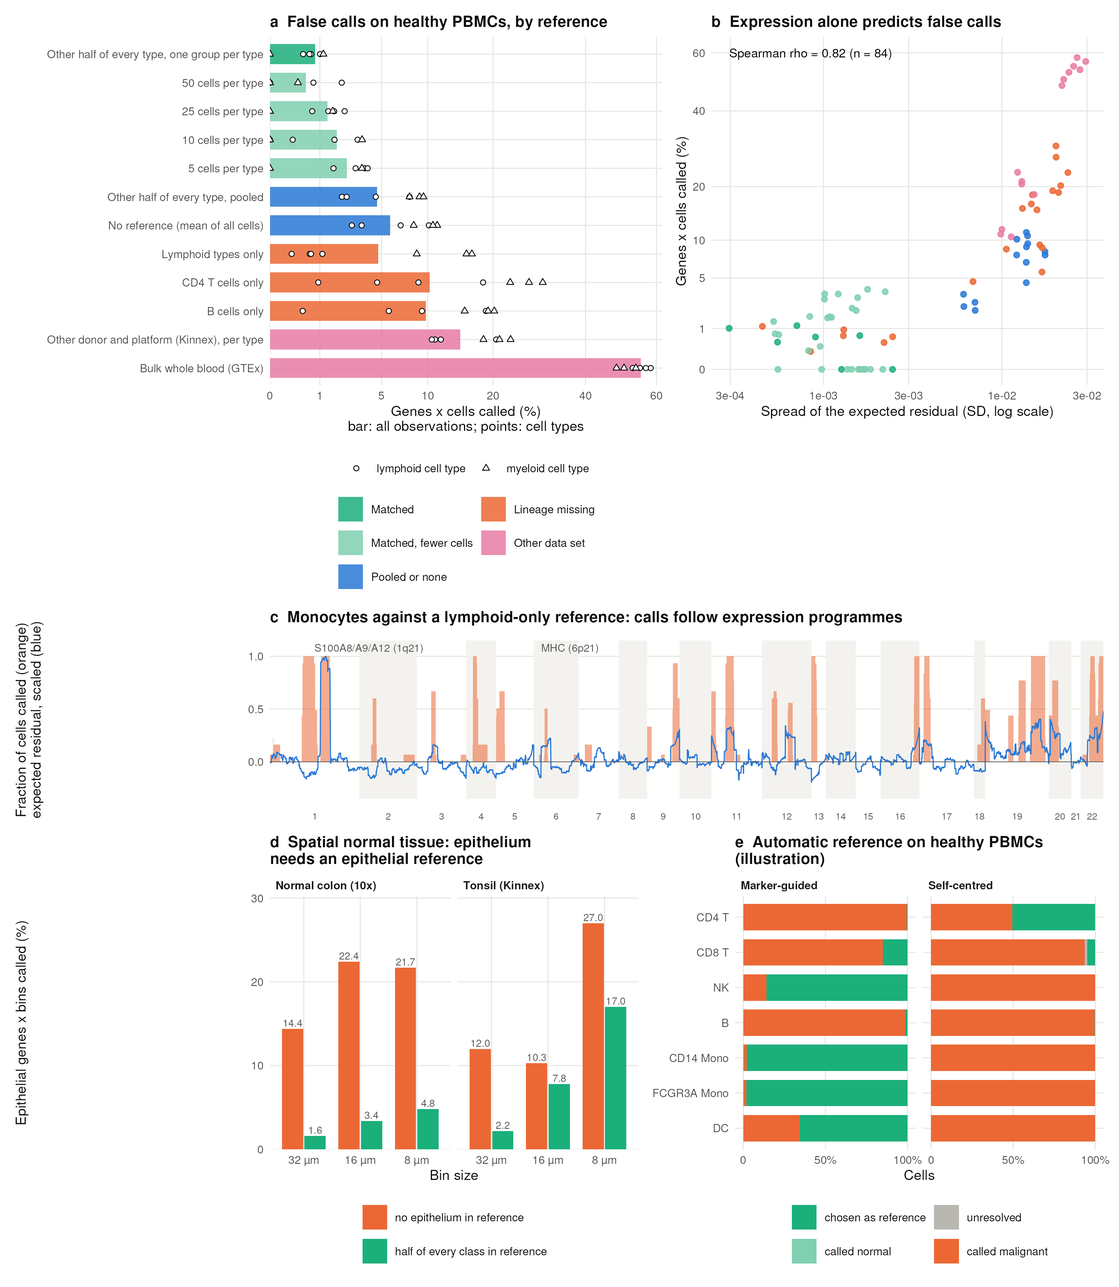
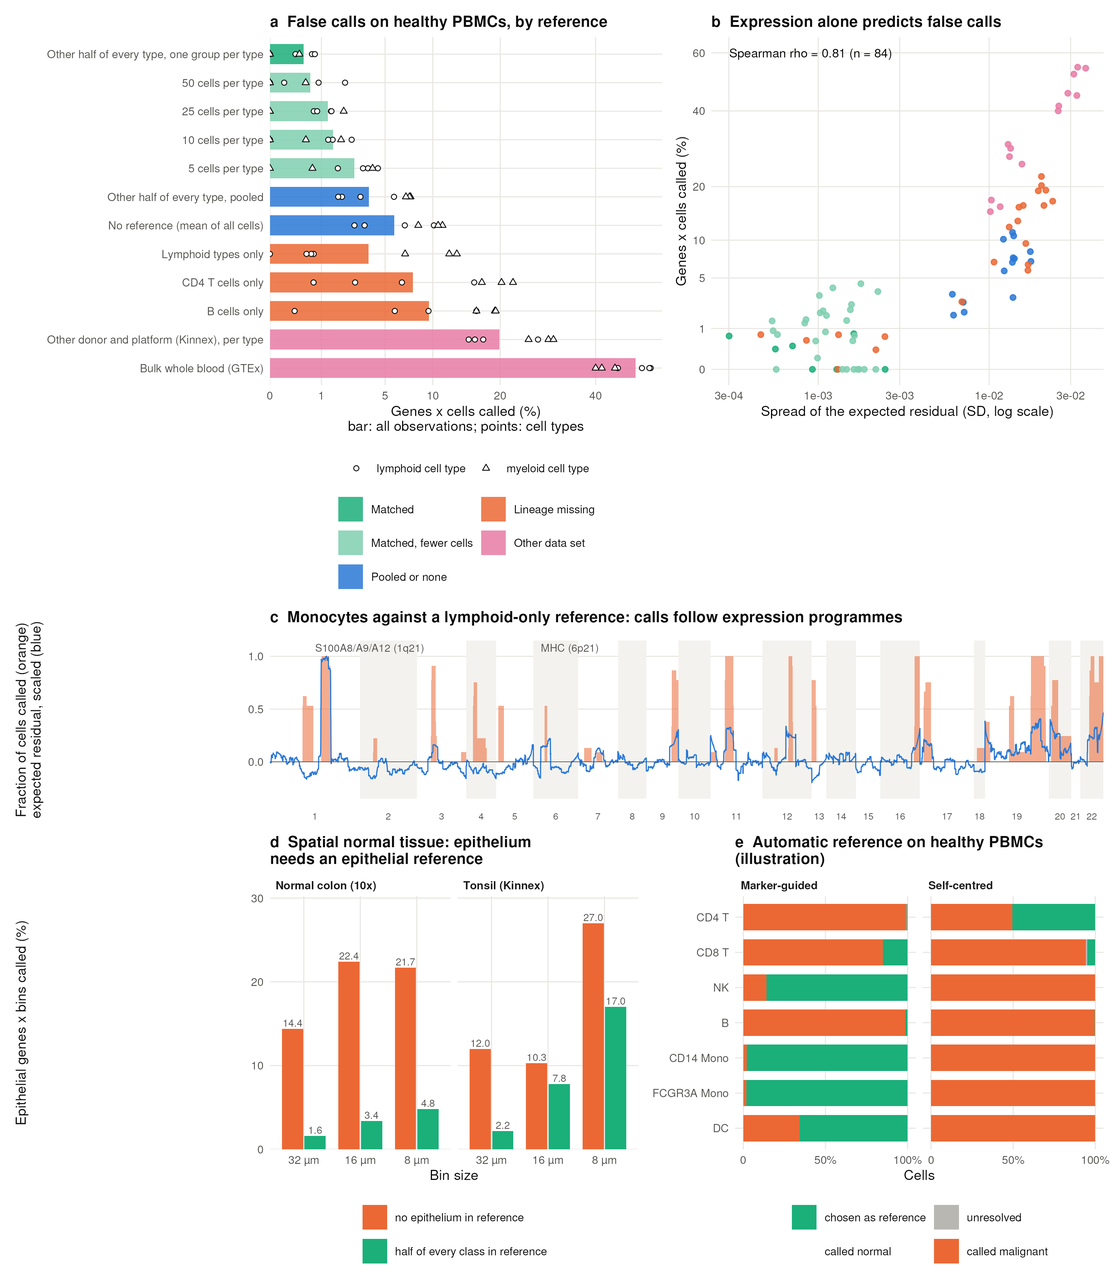
Choice of reference and bin-size figures and text on the release branch: PBMC rerun, P5 16 and 8 um rerun, fixed clones, seed agreement

diff --git a/sections/results.tex b/sections/results.tex
@@ -86,11 +86,11 @@ Simulated data are easier than real data. The simulator draws counts from the sa
 
 \subsection{Choice of reference (Fig.~\ref{fig:6})}
 
-inferCNV measures expression relative to the reference cells, so any expression programme that differs between the observations and the reference, and whose genes lie close together on a chromosome, can appear as a CNA. To measure this, we ran inferCNV on peripheral blood mononuclear cells from a healthy donor, which carry no CNAs \citep{tenx2016pbmc3k, xclonedata} (10x, 2,625 cells in seven cell types). The observations were the same 1,314 cells in every design, a random half of every cell type, and only the reference changed (Fig.~\ref{fig:6}a; Methods). With the other half of every cell type as the reference, one group per type, 0.8\% of genes $\times$ cells were in a non-neutral state after the Bayesian filter (1.3\% before it; 0--1.1\% by cell type). Pooling the same reference cells into one group raised this to 4.6\%, and running without a reference, which uses the mean of all cells as the baseline, to 5.8\%, with the highest rates in monocytes and dendritic cells (8--11\%). The largest effect came from leaving a lineage out of the reference. With the lymphoid cell types alone as the reference, the lymphoid observations stayed at 0.2--1.1\%, but monocytes reached 16\% and dendritic cells 9\%. A single cell type as the reference gave 10\% overall and 15--30\% in the myeloid and NK cells. A reference from another donor sequenced on another platform (Kinnex PBMCs; Fig.~\ref{fig:7}) gave 14.5\% even though every cell type was matched, and 200 bulk whole-blood profiles from GTEx \citep{gtex2020} gave 55\%. The depth of the bulk samples also set the automatic expression cutoff in that run, but the platform difference dominated: with the cutoff taken from the observations alone, as in the new release, the bulk reference still gave 50\%. Reducing the per-type reference to 5--50 cells gave 0.5--2.4\% after filtering.
+inferCNV measures expression relative to the reference cells, so any expression programme that differs between the observations and the reference, and whose genes lie close together on a chromosome, can appear as a CNA. To measure this, we ran inferCNV on peripheral blood mononuclear cells from a healthy donor, which carry no CNAs \citep{tenx2016pbmc3k, xclonedata} (10x, 2,625 cells in seven cell types). The observations were the same 1,314 cells in every design, a random half of every cell type, and only the reference changed (Fig.~\ref{fig:6}a; Methods). With the other half of every cell type as the reference, one group per type, 0.4\% of genes $\times$ cells were in a non-neutral state after the Bayesian filter (1.4\% before it; 0--0.8\% by cell type). Pooling the same reference cells into one group raised this to 3.7\%, and running without a reference, which uses the mean of all cells as the baseline, to 5.8\%, with the highest rates in monocytes and dendritic cells (8--11\%). The largest effect came from leaving a lineage out of the reference. With the lymphoid cell types alone as the reference, the lymphoid observations stayed at 0--0.7\%, but monocytes reached 13\% and dendritic cells 7\%. A single cell type as the reference gave 8--10\% overall and 16--22\% in the myeloid and NK cells. A reference from another donor sequenced on another platform (Kinnex PBMCs; Fig.~\ref{fig:7}) gave 20\% even though every cell type was matched, and 200 bulk whole-blood profiles from GTEx \citep{gtex2020} gave 50\%. Reducing the per-type reference to 5--50 cells gave 0.6--2.7\% after filtering.
 
 A design without CNAs measures only false calls, so we tested reference size on tumours with known events as well (Supplementary Fig.~\ref{fig:Srefsize}; Methods). In three data sets, we planted gains and losses of 2--40~Mb in half of the normal cells of a sample and used the other half as the reference. Calls away from the planted events changed little down to 25--50 reference cells per group (0.6--3.4\% at 50 cells and 1.2--4.2\% at 25, against 0.7--2.4\% with all cells). Below that they rose quickly, to 2.9--8.2\% at 10 cells and 4.5--20\% at 5, and they varied between random draws of the same size (15--26\% at 5 T cells). These extra calls brought no real gain in detection: event sensitivity net of the calls made elsewhere was no higher with small references (Supplementary Fig.~\ref{fig:Srefsize}b). The small reference itself was the cause, not the lower automatic minimum subcluster size that comes with it, because fixing that minimum at 10 cells left the false calls almost unchanged. On BCH869, where WGS gives the truth, the maximal F1 for clones 1--3 was 0.90 with the full reference (18 oligodendrocytes and 39 immune cells) and 0.90--0.92 with 10 cells per type, but 0.80--0.84 with 3 or 5 cells per type. Lineage mattered more than number here: the 18 oligodendrocytes alone gave 0.85 and the 39 immune cells alone 0.68.
 
-The false calls could be predicted from expression alone, before running inferCNV. For each cell type and design we computed the expected residual: the difference between the cell type's mean expression and the reference, set to zero within the range of the reference groups, as in the reference subtraction, and smoothed along each chromosome (Methods). Where the reference lacked the cell type's lineage, the calls followed this profile (Fig.~\ref{fig:6}c). In monocytes against the lymphoid reference, for example, the S100A8/A9/A12 cluster on 1q21, a myeloid programme, was called in 97\% of cells. Across the 84 combinations of design and cell type, the spread of the expected residual ranked the false-call rate with a Spearman correlation of 0.82 (Fig.~\ref{fig:6}b), and in the pooled and reference-free designs the 10\% of genes with the largest expected residual carried 51--84\% of the calls.
+The false calls could be predicted from expression alone, before running inferCNV. For each cell type and design we computed the expected residual: the difference between the cell type's mean expression and the reference, set to zero within the range of the reference groups, as in the reference subtraction, and smoothed along each chromosome (Methods). Where the reference lacked the cell type's lineage, the calls followed this profile (Fig.~\ref{fig:6}c). In monocytes against the lymphoid reference, for example, the S100A8/A9/A12 cluster on 1q21, a myeloid programme, was called in all cells. Across the 84 combinations of design and cell type, the spread of the expected residual ranked the false-call rate with a Spearman correlation of 0.81 (Fig.~\ref{fig:6}b), and in the pooled and reference-free designs the 10\% of genes with the largest expected residual carried 51--99\% of the calls.
 
 Methods that find the reference cells themselves face the same problem. For illustration, we ran two automatic strategies on all 2,625 healthy cells with no labels: a provisional reference chosen by markers of non-malignant lineages, as in SCEVAN \citep{defalco2023}, or by the flattest self-centred expression profiles, the principle of CopyKAT \citep{gao2021copykat}, followed by a second inferCNV run in which subclusters were classified by CNA score and correlation \citep{tirosh2016oligo, puram2017} (Methods). Both called most of the healthy cells malignant (68\% and 77\%; Fig.~\ref{fig:6}e). Each chose mainly one lineage as the reference (monocytes and NK cells, or CD4 T cells) and then classified the other lineages as malignant.
 
@@ -129,9 +129,9 @@ These runs used the default expression cutoff (\texttt{"auto"}; see below), whic
 
 Visium HD data can be analysed at several bin sizes: smaller bins follow tissue structure more closely but hold fewer counts. To test how far inferCNV can follow, we ran it at 32, 16 and 8~\textmu m on the same sections. These were three colorectal tumours (P1, P2 and P5) and normal colon (P3) profiled with the 10x probe-based assay \citep{oliveira2025visiumhd}, the segmented cells of P2, and the three Kinnex sections of Fig.~\ref{fig:8} (Methods). Tumour bins were the observations and bins of the other cell types the reference, one group per type. The normal colon and the tonsil served as controls, with their epithelial bins analysed against the other cell types.
 
-The first limit is the expression filter. inferCNV removes genes whose mean count over all cells is below a fixed cutoff, conventionally 0.1 for 10x data, and this cutoff does not scale with depth. At 8~\textmu m, with a median of 460--1,217 counts per bin in the 10x tumours and about 200 in the Kinnex sections, a cutoff of 0.1 left 10--82 genes on the median chromosome, fewer than the 101 genes of the smoothing window. Each smoothed value then averages over most of a chromosome, and the HMM segments noise. The null check of the new release measures this directly: it runs the HMM on random groups of reference cells, in which every call is false (see \emph{Hidden Markov model and in-silico spike-in calibration} above). At a cutoff of 0.1, 17--79\% of genes $\times$ bins were called in these groups at 8~\textmu m and 20--36\% in the Kinnex 16-\textmu m bins, against 0.1--6.2\% in all other runs (Fig.~\ref{fig:9}c). No run fell between 6.2\% and 17\%; the check warns above 5\% and stops above 15\%. The new default, \texttt{cutoff\ =\ "auto"}, takes the largest of the cutoffs 1, 0.1, 0.03, 0.01, 0.003 and 0.001 that keeps at least three smoothing windows of genes on the median chromosome. It chose 1 for the Smart-seq2 data of Figs.~\ref{fig:1}--\ref{fig:3}, the value used there, and 0.1 for the 10x 32-\textmu m bins. For smaller bins it chose 0.03 (10x, 16~\textmu m) and 0.01 (8~\textmu m), and 0.003--0.03 for the shallower Kinnex bins. These cutoffs kept 307--440 genes per chromosome, and the null false-call rate fell to at most 3.0\% in all 22 runs.
+The first limit is the expression filter. inferCNV removes genes whose mean count over all cells is below a fixed cutoff, conventionally 0.1 for 10x data, and this cutoff does not scale with depth. At 8~\textmu m, with a median of 460--1,217 counts per bin in the 10x tumours and about 200 in the Kinnex sections, a cutoff of 0.1 left 10--82 genes on the median chromosome, fewer than the 101 genes of the smoothing window. Each smoothed value then averages over most of a chromosome, and the HMM segments noise. The null check of the new release measures this directly: it runs the HMM on random groups of reference cells, in which every call is false (see \emph{Hidden Markov model and in-silico spike-in calibration} above). At a cutoff of 0.1, 17--79\% of genes $\times$ bins were called in these groups at 8~\textmu m and 20--36\% in the Kinnex 16-\textmu m bins, against 0.1--6.2\% in all other runs (Fig.~\ref{fig:9}c). No run fell between 6.2\% and 17\%; the check warns above 5\% and stops above 15\%. The new default, \texttt{cutoff\ =\ "auto"}, takes the largest of the cutoffs 1, 0.1, 0.03, 0.01, 0.003 and 0.001 that keeps at least three smoothing windows of genes on the median chromosome. It chose 1 for the Smart-seq2 data of Figs.~\ref{fig:1}--\ref{fig:3}, the value used there, and 0.1 for the 10x 32-\textmu m bins. For smaller bins it chose 0.03 (10x, 16~\textmu m) and 0.01 (8~\textmu m), one step higher in P5, the deepest tumour (0.1 and 0.03), and 0.003--0.03 for the shallower Kinnex bins. These cutoffs kept 307--440 genes per chromosome, and the null false-call rate fell to at most 3.0\% in all 22 runs.
 
-With these cutoffs, the tumour profiles at 16 and 8~\textmu m matched those at 32~\textmu m (Fig.~\ref{fig:9}a, d; Supplementary Fig.~\ref{fig:Sres}). In the 10x tumours, the mean residual profile correlated with the 32-\textmu m profile with $r = 0.98$--0.99 at 16~\textmu m, 0.96--0.97 at 8~\textmu m and 0.96 for segmented cells, against 0.94--0.96, 0.78--0.92 and 0.89 at a cutoff of 0.1. Agreement followed depth per bin rather than technology. Kinnex bins of 16 and 8~\textmu m, with 200--700 counts, reached $r = 0.73$--0.96 (0.02--0.59 at a cutoff of 0.1). Smaller bins nonetheless added some calls. At 8~\textmu m, P1 had losses on chromosomes 2--5 and 9 that were absent at 32~\textmu m. The fraction of bins called lost along the genome correlated with that at 32~\textmu m with $r = 0.41$ in P1, against 0.83--0.92 in P2 and P5. Calls that appear only in the smallest bins should therefore be checked against larger bins of the same section. In P5, a gain of chromosome 14 defined a subclone at every bin size (1,217 of 7,835 tumour bins at 32~\textmu m, 1,185 at 16~\textmu m and 515 at 8~\textmu m), always in the same region of the section (Fig.~\ref{fig:9}b). Clone assignments otherwise agreed poorly between bin sizes (adjusted Rand index 0.08--0.22 against 32~\textmu m). Three causes contributed, none of them a difference in the tumour. The finer runs analysed a sample of 10,000 tumour bins: with all 27,130 tumour bins at 16~\textmu m, P5 split into the same two clones as at 32~\textmu m, and agreement rose from 0.13 to 0.48. Subclusters of small bins did not follow the clones. And at 8~\textmu m, clone assignments changed with the random seed of the HMM calibration (P5: adjusted Rand index 0.19 between seeds, against 0.67 at 32~\textmu m; P2 0.95 at 32~\textmu m). We therefore used the bin sizes as successive steps rather than alternatives (find, confirm, map; Methods). Clone-defining events were found in every run, each was tested in the other runs of the same section against random genome windows of the same size, and the clones of the 32-\textmu m run were mapped onto finer bins through the confirmed events. In P5, the chromosome 14 gain was confirmed at every bin size (AUC 0.72--0.93), whereas the events found only at 8~\textmu m were not. In P2, the 1q loss and the gains of chromosome 16 and 17q were confirmed in all finer runs (AUC 0.69--0.88). In P1, no clone-defining event of the 32-\textmu m run was confirmed in smaller bins. Mapping recovered the 32-\textmu m clones only regionally: per-bin balanced accuracy was 0.64--0.65 in P5 and 0.57--0.61 in P2 (chance 0.50 and 0.33), with event scores pooled over 50--130~\textmu m. Smaller bins therefore located clones no more finely than 32-\textmu m bins did. In the two controls, 10--27\% of epithelial genes $\times$ bins were called at the three bin sizes (14\% and 12\% at 32~\textmu m). These calls reflect comparing epithelium with a reference made only of other lineages: with half of every class, epithelium included, as the reference, the rate fell to 1.6--4.8\% in the colon at all three bin sizes (Fig.~\ref{fig:6}d; see \emph{Choice of reference}).
+With these cutoffs, the tumour profiles at 16 and 8~\textmu m matched those at 32~\textmu m (Fig.~\ref{fig:9}a, d; Supplementary Fig.~\ref{fig:Sres}). In the 10x tumours, the mean residual profile correlated with the 32-\textmu m profile with $r = 0.97$--0.99 at 16~\textmu m, 0.95--0.96 at 8~\textmu m and 0.97 for segmented cells, against 0.94--0.96, 0.78--0.92 and 0.89 at a cutoff of 0.1. Agreement followed depth per bin rather than technology. Kinnex bins of 16 and 8~\textmu m, with 200--700 counts, reached $r = 0.73$--0.96 (0.02--0.59 at a cutoff of 0.1). Smaller bins nonetheless added some calls. At 8~\textmu m, P1 had losses on chromosomes 2--5 and 9 that were absent at 32~\textmu m. The fraction of bins called lost along the genome correlated with that at 32~\textmu m with $r = 0.41$ in P1, against 0.70 in P5 and 0.92 in P2. Calls that appear only in the smallest bins should therefore be checked against larger bins of the same section. In P5, a gain of chromosome 14 defined a subclone at every bin size (1,217 of 7,835 tumour bins at 32~\textmu m, 2,170 of 9,982 at 16~\textmu m and 792 of 9,806 at 8~\textmu m), always in the same region of the section (Fig.~\ref{fig:9}b). Clone assignments otherwise agreed poorly between bin sizes (adjusted Rand index 0.06--0.32 against 32~\textmu m). Subclusters of small bins did not follow the clones, and at 8~\textmu m, clone assignments changed with the random seed of the HMM calibration (P5: adjusted Rand index 0.38 between seeds, against 0.63 at 32~\textmu m; P2 0.98 at 32~\textmu m). Sampling was not the cause: with all 27,130 tumour bins at 16~\textmu m instead of 10,000, agreement with 32~\textmu m in P5 rose only from 0.32 to 0.35. We therefore used the bin sizes as successive steps rather than alternatives (find, confirm, map; Methods). Clone-defining events were found in every run, each was tested in the other runs of the same section against random genome windows of the same size, and the clones of the 32-\textmu m run were mapped onto finer bins through the confirmed events. In P5, the chromosome 14 gain was confirmed at every bin size (AUC 0.70--0.93), whereas of the other events found at 8~\textmu m, only one was confirmed, in one other run. In P2, the 1q loss and the gains of chromosome 16 and 17q were confirmed in all finer runs (AUC 0.69--0.88). In P1, no clone-defining event of the 32-\textmu m run was confirmed in smaller bins. Mapping recovered the 32-\textmu m clones only regionally: per-bin balanced accuracy was 0.62--0.66 in P5 and 0.57--0.61 in P2 (chance 0.50 and 0.33), with event scores pooled over 30--130~\textmu m. Smaller bins therefore located clones no more finely than 32-\textmu m bins did. In the two controls, 10--27\% of epithelial genes $\times$ bins were called at the three bin sizes (14\% and 12\% at 32~\textmu m). These calls reflect comparing epithelium with a reference made only of other lineages: with half of every class, epithelium included, as the reference, the rate fell to 1.6--4.8\% in the colon at all three bin sizes (Fig.~\ref{fig:6}d; see \emph{Choice of reference}).
 
 A further check concerns subcluster size. Leiden subclustering places no lower limit on size, and subclusters of one or two cells are common. In random groups of reference cells, a single cell had 14--17\% of genes called in the Smart-seq2 data, and 36--54\% for Visium HD bins and segmented cells. The rate fell below 2\% at 5 cells in Smart-seq2 data, at 10--20 bins at 32 and 16~\textmu m, and at 50 segmented cells. With the default \texttt{HMM\_min\_subcluster\_size\ =\ "auto"}, subclusters below the size at which this rate reaches 2\% are merged into their most similar subcluster before the HMM. The minimum was 5 cells for melanoma and oligodendroglioma, 15 bins for P1 at 32~\textmu m, 30 for P2 at 16~\textmu m and 100 segmented cells. In the Smart-seq2 tumours of Supplementary Fig.~\ref{fig:S6}, merging removed all the 0-copy calls of one- and two-cell subclusters. For 14 of 16 well-supported 1- to $\geq$5-copy events, the fraction of the event called in its state changed by less than 0.5 percentage points; the largest change was in the $\geq$5-copy gain of BCH869 1q, from 97\% to 91\%. With the bulk GTEx reference, in which each reference ``cell'' is a tissue sample, a single sample already had no calls, so the reference cannot calibrate the size; the new release then warns and uses 5 cells, the smallest minimum found in single-cell data. The minimum also sets the smallest subclone that can be called. In BCH869, random groups of 5 reference cells still had 5.0\% of genes called and groups of 10 had 1.2\%, so the minimum was 10 cells, and the 7-cell clone 4 (Fig.~\ref{fig:4}b) was merged into a subcluster of 67 cells, mostly of clone 2, and most of its events were no longer called. Because the minimum is calibrated on the noise of the reference cells, it falls as the depth per cell rises: a subclone of this size would need deeper data to be resolved, or a smaller minimum set by hand with a higher false-call rate accepted.
 

diff --git a/sections/discussion.tex b/sections/discussion.tex
@@ -13,7 +13,7 @@ Compared with other methods, inferCNV's main contributions are the following.
 \end{itemize}
 Because inferCNV uses expression alone and needs only a count matrix and a gene order file, it applies to any organism and platform. This includes inbred mouse models, data available only as count matrices, and plate-based or single-nucleus protocols with uneven coverage of variant sites. It also includes long-read single-cell data, on which inferCNV was as accurate as on short reads of the same cells (Fig.~\ref{fig:7}), and spatial data summed from Visium HD bins (Fig.~\ref{fig:8}). With spatial data, binning must give spots deep enough for arm-level signals: in our analysis, spots with fewer than about 1,000 counts produced calls that followed depth.
 
-The method also has limitations. The most important is its dependence on the reference. inferCNV measures copy number relative to the reference cells chosen by the user. A reference that differs in lineage from the observations, or that carries CNAs itself, distorts the signal. On a euploid data set, inferCNV called extensive aneuploidy when the reference was a different cell type or an external data set \citep{schmid2025}. In our analyses of healthy blood cells, false calls rose from 0.8\% with a per-cell-type reference of the same cells to 16\% in monocytes when the reference lacked the myeloid lineage, 14.5\% with a matched reference from another donor and platform, and 55\% with a bulk reference (Fig.~\ref{fig:6}a). The calls followed expression programmes of the observed cells that the reference did not cancel, such as the S100 gene cluster of monocytes, and their extent could be predicted from expression alone. In spatial data of normal tissue, epithelium compared with a reference of other lineages showed 10--27\% false calls, and adding epithelium to the reference reduced this four- to ninefold in the colon (Fig.~\ref{fig:6}d). The reference must therefore cover the lineage of the cells of interest; in carcinomas this means normal epithelium, which stroma and immune cells cannot replace. In glioblastoma, nine normal cells from the tumour itself gave a cleaner background than over a thousand bulk brain profiles (Fig.~\ref{fig:3}b). Without a reference, the baseline is the mean of all cells, as in the first pass of the original procedure \citep{puram2017}. When most cells are malignant, the shared tumour profile then becomes the baseline and the normal cells appear altered. Adding non-malignant cells, or a second run with the normal cells identified in a first run as the reference, avoids this inversion \citep{song2025}. Automatic choice of the reference does not remove the dependence: on healthy blood cells, two automatic strategies each chose mainly one lineage as the reference and classified most other cells as malignant (Fig.~\ref{fig:6}e).
+The method also has limitations. The most important is its dependence on the reference. inferCNV measures copy number relative to the reference cells chosen by the user. A reference that differs in lineage from the observations, or that carries CNAs itself, distorts the signal. On a euploid data set, inferCNV called extensive aneuploidy when the reference was a different cell type or an external data set \citep{schmid2025}. In our analyses of healthy blood cells, false calls rose from 0.4\% with a per-cell-type reference of the same cells to 13\% in monocytes when the reference lacked the myeloid lineage, 20\% with a matched reference from another donor and platform, and 50\% with a bulk reference (Fig.~\ref{fig:6}a). The calls followed expression programmes of the observed cells that the reference did not cancel, such as the S100 gene cluster of monocytes, and their extent could be predicted from expression alone. In spatial data of normal tissue, epithelium compared with a reference of other lineages showed 10--27\% false calls, and adding epithelium to the reference reduced this four- to ninefold in the colon (Fig.~\ref{fig:6}d). The reference must therefore cover the lineage of the cells of interest; in carcinomas this means normal epithelium, which stroma and immune cells cannot replace. In glioblastoma, nine normal cells from the tumour itself gave a cleaner background than over a thousand bulk brain profiles (Fig.~\ref{fig:3}b). Without a reference, the baseline is the mean of all cells, as in the first pass of the original procedure \citep{puram2017}. When most cells are malignant, the shared tumour profile then becomes the baseline and the normal cells appear altered. Adding non-malignant cells, or a second run with the normal cells identified in a first run as the reference, avoids this inversion \citep{song2025}. Automatic choice of the reference does not remove the dependence: on healthy blood cells, two automatic strategies each chose mainly one lineage as the reference and classified most other cells as malignant (Fig.~\ref{fig:6}e).
 
 inferCNV does not classify cells as malignant or normal. The original studies combined a CNA magnitude score with each cell's correlation to the tumour's average profile \citep{venteicher2017, puram2017, neftel2019}. That approach, which infercna implements \citep{laffy_infercna}, can be applied to inferCNV's residual matrix, as we did for the synovial sarcoma example (Methods). Methods that identify normal cells themselves, such as CopyKAT, SCEVAN and Numbat, remove the need for a separate step \citep{gao2021copykat, defalco2023, gao2023numbat}.
 
